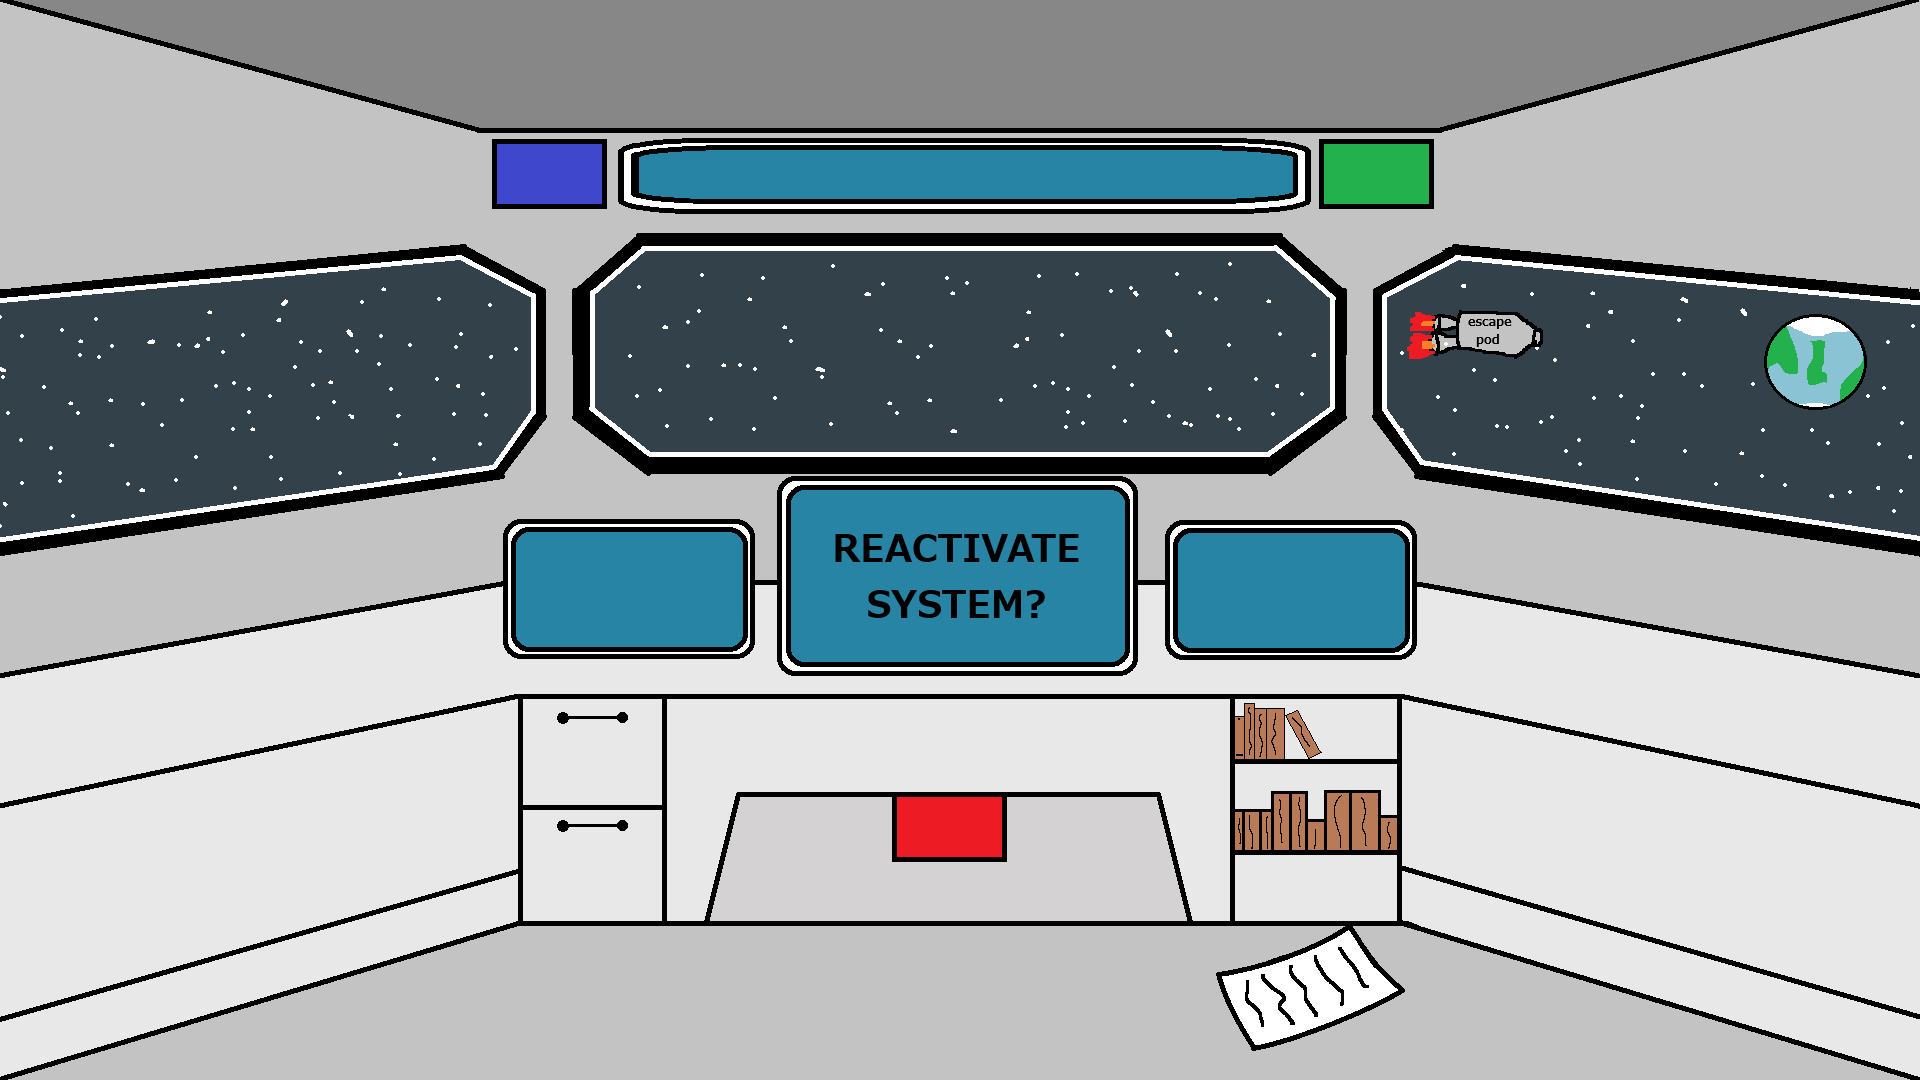
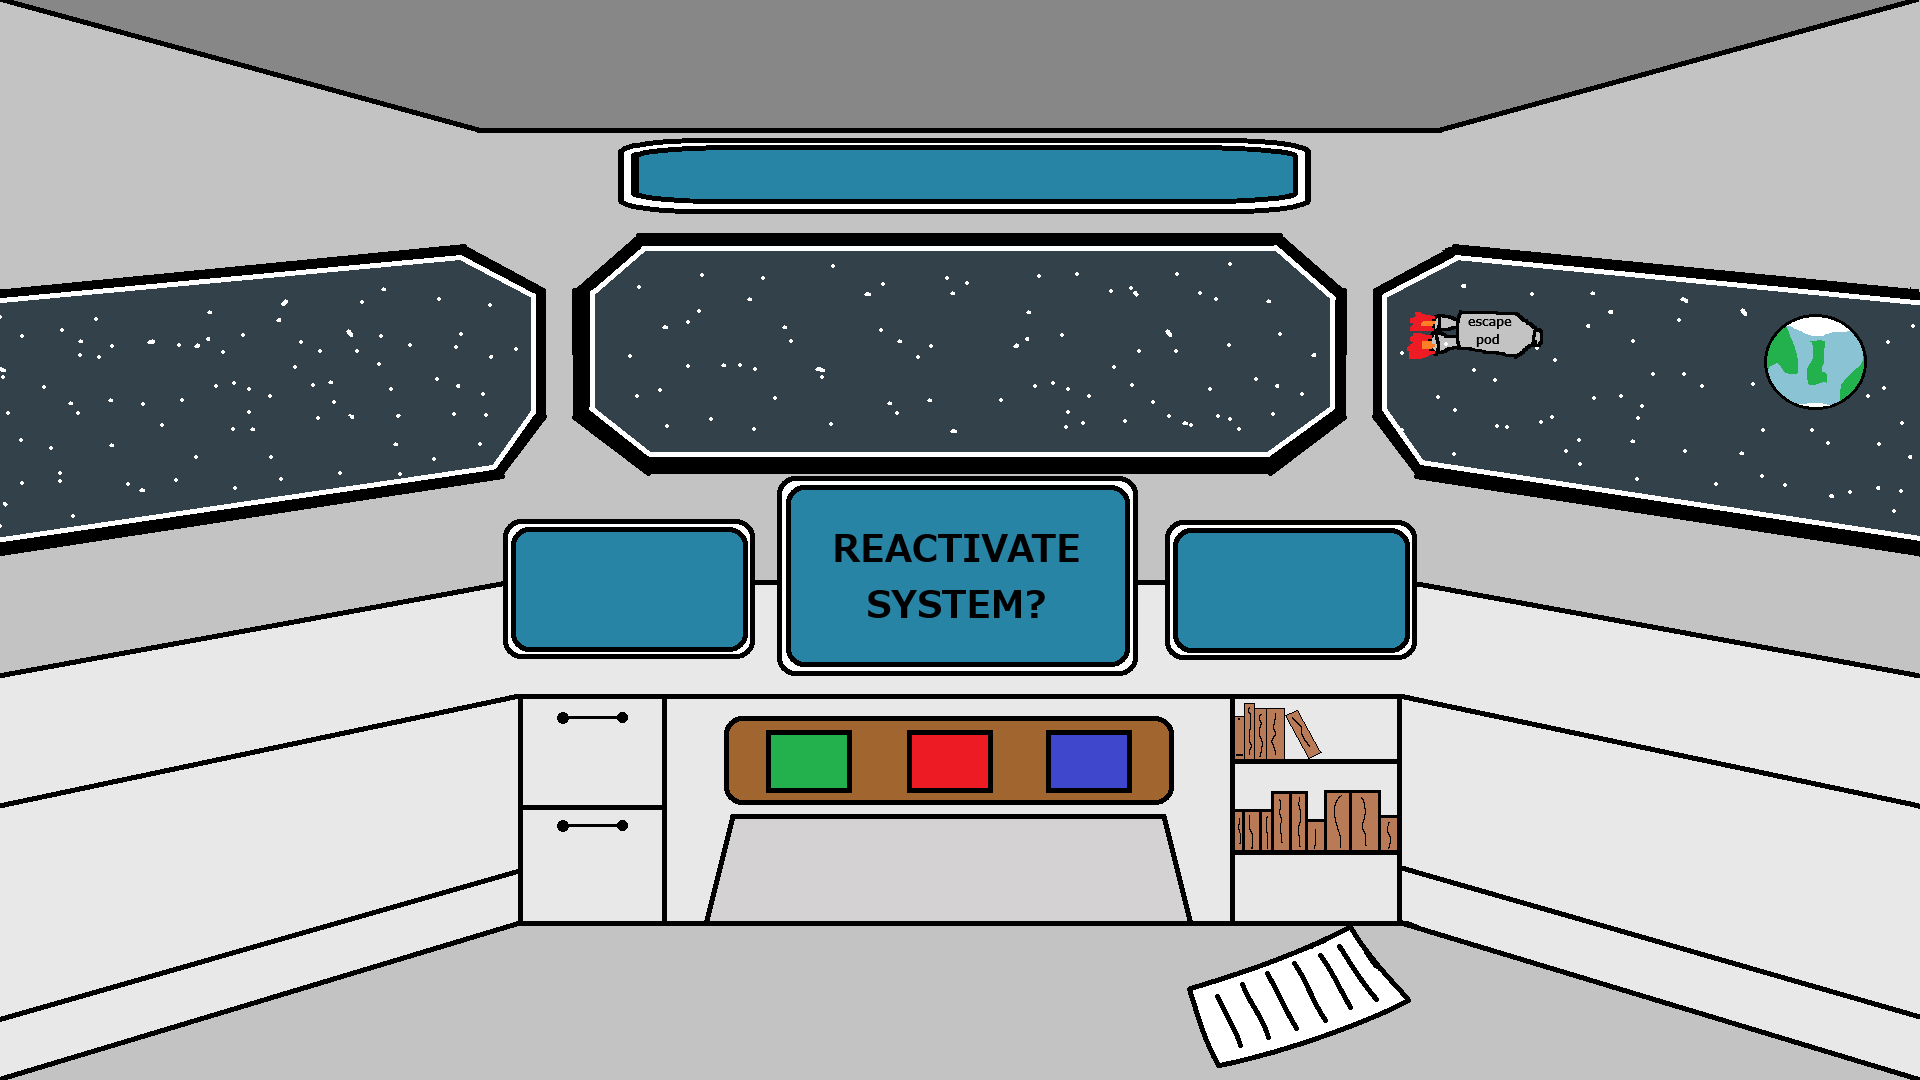
fix: buttons are more apparent now

diff --git a/src/main/java/nz/ac/auckland/se206/controllers/StartController.java b/src/main/java/nz/ac/auckland/se206/controllers/StartController.java
@@ -12,6 +12,7 @@ import nz.ac.auckland.se206.GameTimer;
 import nz.ac.auckland.se206.OxygenMeter;
 import nz.ac.auckland.se206.SceneManager;
 import nz.ac.auckland.se206.SceneManager.AppUi;
+import nz.ac.auckland.se206.Sound;
 import nz.ac.auckland.se206.gpt.openai.ApiProxyException;
 
 public class StartController {
@@ -119,8 +120,10 @@ public class StartController {
     App.getScene().setRoot(roomRoot);
     GameTimer gameTimer = GameTimer.getInstance();
     OxygenMeter oxygenMeter = OxygenMeter.getInstance();
+    Sound sound = Sound.getInstance();
 
     gameTimer.startTimer();
     oxygenMeter.startTimer();
+    sound.resetSoundProperty();
   }
 }

diff --git a/src/main/java/nz/ac/auckland/se206/Sound.java b/src/main/java/nz/ac/auckland/se206/Sound.java
@@ -31,6 +31,10 @@ public class Sound {
     return isSoundOn;
   }
 
+  public void resetSoundProperty() {
+    isSoundOn.set(true);
+  }
+
   public void toggleImage() throws FileNotFoundException {
     isSoundOn.set(!isSoundOnProperty().get());
 
